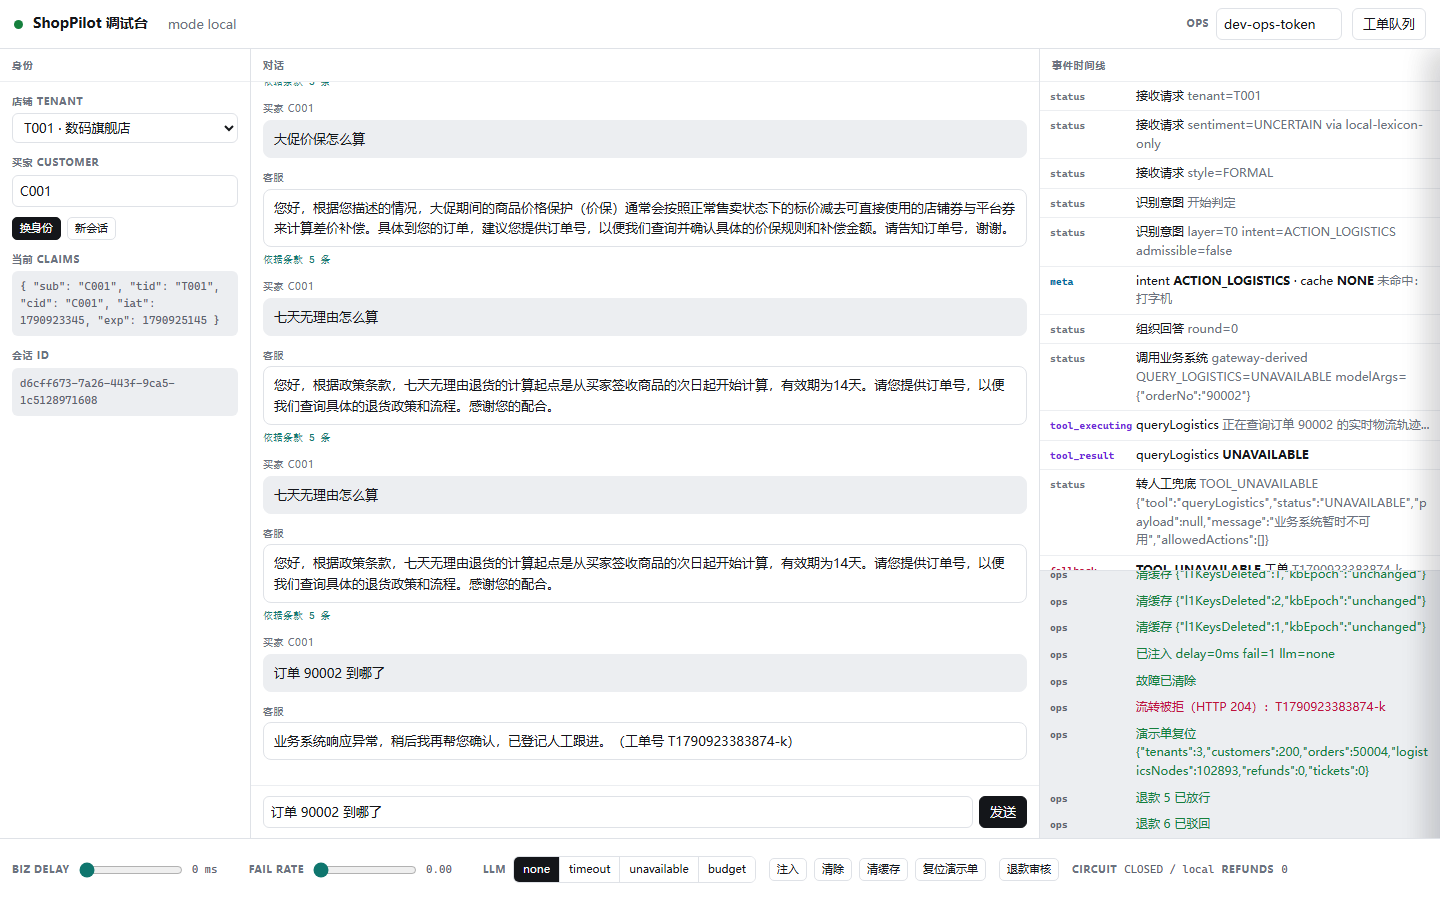
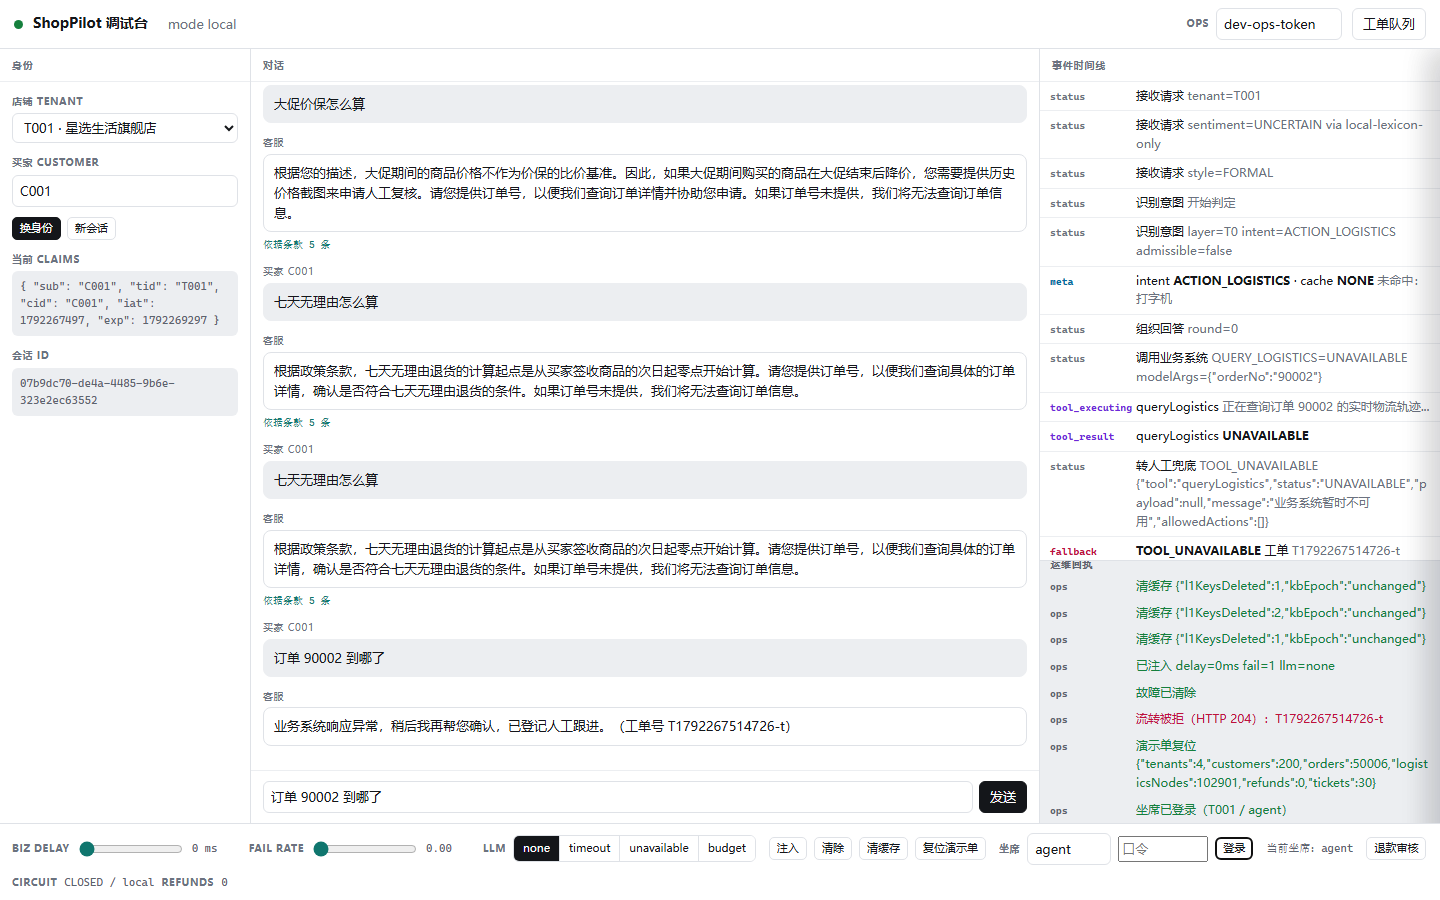
feat(round34): 调试台坐席登录——退款面板读面可读、保持只读（R9 裁定 ①）
round30 起退款队列读取是 staff-only（ADR 0063），而调试台只有 buyer 的 mock 令牌，
面板恒 403——对运维面关死的抽屉。按所有者裁定补坐席账号登录路：

- footer 加「坐席 账号/口令/登录 + 当前坐席」（放 footer 不放 header：header 高度被
  抽屉 inset 钉死 49px，且实测放进 header 后 390px 视口整页 554 宽、narrow-footer 当场红；
  「当前坐席」也单独成格——.ctl 是 nowrap 整块，并进去单行 404 > 390 再红一次）；
- api() 加 tokenOverride：退款队列显式带坐席令牌，不与 buyer 会话令牌混用；
- loadRefunds() 未登录给可读原因，不再打注定 403 的请求；面板保持只读（round30 形态）；
- 令牌只在页面内存、口令用完即清、静态资源零预填（扩了票 21 那条测试）；
- verify-console.mjs 退款段重写：未登录提示（R9 回归钉子）→ 表单登录 → 队列可读 →
  只读形态（零 data-decision 按钮 + 指向工作台）；造数加确定性回退（模型不可用时
  面板断言仍能被判）；移除死掉的 dialog 处理器。

读数：console 44/44 PASS、refund exit 0（U9 随之关闭）、审计 G8 连带红转绿；
四模块 10 + 73 + 424 + 45 = 552。

diff --git a/shoppilot-gateway/src/main/resources/static/index.html b/shoppilot-gateway/src/main/resources/static/index.html
@@ -196,6 +196,19 @@
     <button class="sm" id="btnFlush">清缓存</button><button class="sm" id="btnDemo">复位演示单</button></div>
   <!-- 退款审核入口放页脚：header 高度被抽屉 inset 钉死在 49px，往里塞按钮要动那处几何；
        页脚本来就 flex-wrap，加一颗按钮只是多一行，不动任何既有布局。 -->
+  <!-- 坐席登录也放页脚，同一条理由，且是被门禁实测逼过来的：先放进 header 时 390px 视口下
+       整页被撑宽到 554（header 不换行），narrow-footer 那条断言当场红。它服务的是紧邻的
+       「退款审核」抽屉——队列读面是 staff-only（B3 / ADR 0063），要读它必须有坐席账号这条路
+       （2026-10-18 / R9：在那之前面板恒 403，是对运维面关死的抽屉）。
+       令牌只活在页面内存里、口令用完即清，不落 localStorage/sessionStorage：
+       这是调试台，关标签页即登出就是它该有的形态。 -->
+  <div class="ctl"><span class="t">坐席</span><input type="text" id="agentUser" size="8" placeholder="坐席账号">
+    <input type="password" id="agentPass" size="10" placeholder="口令">
+    <button class="sm" id="btnAgentLogin">登录</button></div>
+  <!-- 身份显示单独一格：.ctl 是 white-space:nowrap 的整块，把「当前坐席：x」并进去会让
+       390px 视口下的 footer 单行超宽（实测 404 > 390，narrow-footer 断言当场红）。
+       拆开后 footer 的 flex-wrap 才有地方可换行。 -->
+  <div class="ctl"><span class="val" id="agentWho"></span></div>
   <div class="ctl"><button class="sm" id="btnRefunds">退款审核</button></div>
   <div class="ctl"><span class="t">circuit</span><span class="val" id="circuit">-</span><span class="t">refunds</span><span class="val" id="refunds">-</span></div>
 </footer>
@@ -212,7 +225,9 @@
 </aside>
 <script>
 const $ = (id) => document.getElementById(id);
-const state = { token: '', tenant: 'T001', customer: 'C001', conv: crypto.randomUUID(), busy: false };
+const state = { token: '', tenant: 'T001', customer: 'C001', conv: crypto.randomUUID(), busy: false,
+  // 坐席令牌（只读退款队列用）：内存一份，刷新即失效——调试台不做持久登录态
+  staffToken: '', staffUser: '' };
 
 function newConv() {
   state.conv = crypto.randomUUID();
@@ -251,9 +266,12 @@ async function readSse(response, onFrame) {
   }
 }
 
-async function api(method, path, body, withAuth = true) {
+async function api(method, path, body, withAuth = true, tokenOverride = '') {
   const headers = { 'Content-Type': 'application/json' };
-  if (withAuth && state.token) headers.Authorization = 'Bearer ' + state.token;
+  // tokenOverride 只给 staff-only 的读面用（退款队列）：那里的身份是坐席账号，不是页面的
+  // buyer 会话令牌——把两具身份混成一支，就会回到 R9 那种"拿错令牌恒 403"的局面。
+  const bearer = tokenOverride || state.token;
+  if (withAuth && bearer) headers.Authorization = 'Bearer ' + bearer;
   // 运维凭证随每个请求带上：只有 ops 端点会读它，其余端点忽略
   headers['X-Ops-Token'] = $('opsToken').value.trim();
   // 网络级失败（fetch 自己 reject）也走同一支笔：以前这里会直接抛出去，调用方只判 res.status，
@@ -651,8 +669,15 @@ function closeRefundDrawer() {
 }
 
 async function loadRefunds() {
+  // 读面先判身份：没有坐席令牌时给一句可读的原因，而不是打一发注定 403 的请求再显示
+  // 一句看不懂的失败（R9 的现场形态就是"面板永远空着，没人知道为什么"）。
+  if (!state.staffToken) {
+    $('refundQueue').innerHTML =
+      '<div class="empty refund-need-staff">退款队列要坐席身份才能读：用页脚的坐席账号登录后重开本抽屉（B3 / ADR 0063）</div>';
+    return;
+  }
   $('refundQueue').innerHTML = '<div class="empty">加载中…</div>';
-  const res = await api('GET', '/api/v1/support/ops/refunds/pending', null, true);
+  const res = await api('GET', '/api/v1/support/ops/refunds/pending', null, true, state.staffToken);
   if (res.status !== 200) {
     $('refundQueue').innerHTML = '<div class="empty">拉取失败：' + esc(failureReason(res)) + '</div>';
     return;
@@ -675,8 +700,35 @@ function syncSliders() {  $('delayV').textContent = $('delay').value + ' ms';
   $('failRateV').textContent = Number($('failRate').value).toFixed(2);
 }
 
+// ---- 坐席登录（只服务退款队列这条 staff-only 读面）----
+// 与工作台同一套后端契约（/auth/login，用户名按 (租户, 用户名) 唯一）。这里刻意不复用
+// login()：那是 buyer 的 mock 身份领取口，两具身份各有各的用途，混成一支就会回到 R9。
+async function loginStaff() {
+  const tenant = $('tenant').value || state.tenant;
+  const user = $('agentUser').value.trim();
+  const pass = $('agentPass').value;
+  if (!user || !pass) { report(false, '坐席登录需要账号与口令'); return; }
+  const res = await api('POST', '/auth/login', { tenantId: tenant, username: user, password: pass }, false);
+  if (res.status !== 200 || !res.body || !res.body.token) {
+    state.staffToken = ''; state.staffUser = '';
+    $('agentWho').textContent = '';
+    // 口令错与「这个账号没有坐席权限」在登录这一步是同一句话（后端只说用户名或口令不对），
+    // 照实转述，不替它编原因。
+    report(false, '坐席登录失败：' + failureReason(res));
+    return;
+  }
+  state.staffToken = res.body.token;
+  state.staffUser = res.body.username || user;
+  $('agentPass').value = '';                       // 口令不留痕
+  $('agentWho').textContent = '当前坐席：' + state.staffUser;
+  report(true, '坐席已登录（' + tenant + ' / ' + state.staffUser + '）');
+  if ($('refundDrawer').classList.contains('open')) loadRefunds();
+}
+
 // ---- 装配 ----
 $('btnLogin').onclick = login;
+$('btnAgentLogin').onclick = loginStaff;
+$('agentPass').addEventListener('keydown', (e) => { if (e.key === 'Enter') loginStaff(); });
 $('btnNewConv').onclick = newConv;
 $('btnSend').onclick = ask;
 $('q').addEventListener('keydown', (e) => { if (e.key === 'Enter') ask(); });

diff --git a/shoppilot-gateway/src/test/java/com/shoppilot/gateway/config/ServedConsoleHidesDevDefaultsTest.java b/shoppilot-gateway/src/test/java/com/shoppilot/gateway/config/ServedConsoleHidesDevDefaultsTest.java
@@ -46,4 +46,17 @@ class ServedConsoleHidesDevDefaultsTest {
         assertThat(line).doesNotContain("value=");
         assertThat(line).contains("placeholder=");
     }
+
+    @Test
+    @DisplayName("坐席登录输入框同样不预填（2026-10-18 加登录路时的同一条规则：静态资源不派发凭证）")
+    void staffLoginInputsAreNotPrefilled() throws Exception {
+        String html = servedPage();
+        // 两个输入框都可能有换行：按整页找 id 与 value 的同现形态，而不是逐行找。
+        assertThat(html).contains("id=\"agentUser\"");
+        assertThat(html).contains("id=\"agentPass\"");
+        assertThat(html).doesNotContain("id=\"agentUser\" value=");
+        assertThat(html).doesNotContain("id=\"agentPass\" value=");
+        // 口令框必须是 password 型，不能把键入内容晾在屏幕上
+        assertThat(html).contains("id=\"agentPass\" size=\"10\" placeholder=\"口令\"");
+    }
 }
